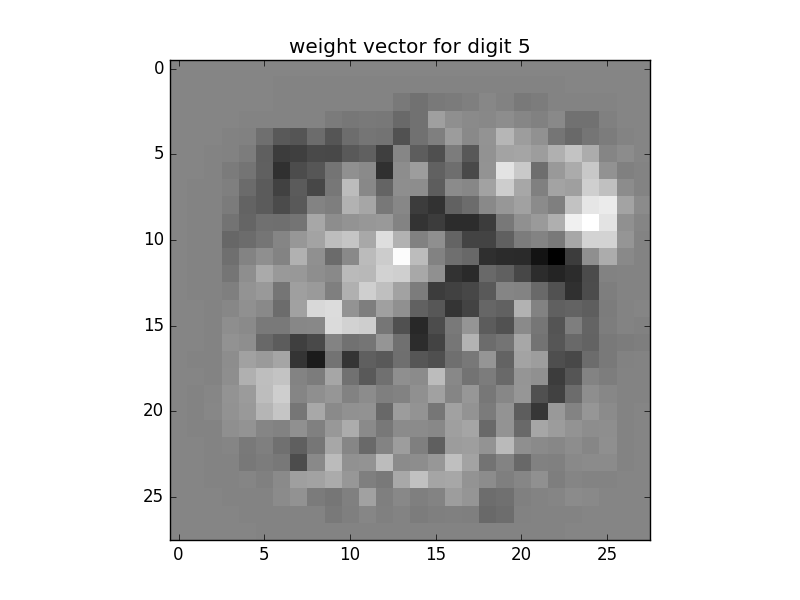
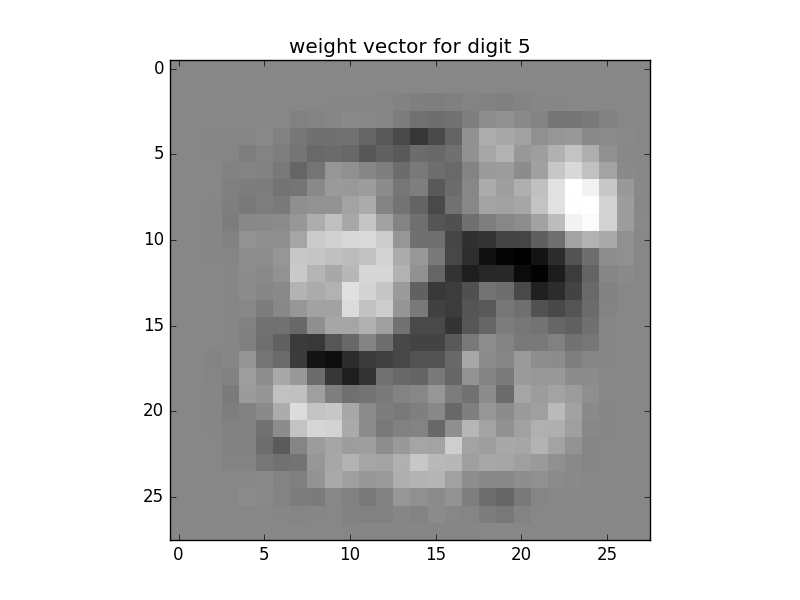
Fixed Q4 sec. c and the non-kernel SGD

Changed region(s): [[0.2812, 0.18, 0.7812, 0.84], [0.6875, 0.21, 0.75, 0.24]]

diff --git a/HW3/hw3.py b/HW3/hw3.py
@@ -52,8 +52,9 @@ def main(args):
         output = ''
         # Section A
 
-    etas = [x for x in frange(0.000001, 0.00001, 0.000001)]
-    T = 1000
+    etas = [1e-20,1e-19,1e-18,1e-17,1e-16,1e-15\
+        ,1e-14,1e-13,1e-12,1e-11,1e-10,1e-9,1e-8,1e-7,1e-6,1e-5,1e-4,1e-3,1e-2,1e-1,1e-0]
+    T = 5000
     C = 1.0
     best_eta = 0
     best_accuracy = 0
@@ -68,13 +69,13 @@ def main(args):
     plt.figure(1)
     plt.plot(etas, acs)
     plt.xlabel('$\eta$ value')
+    plt.xscale('log')
     plt.ylabel('Accuracy')
     plt.title('Different $\eta$ values vs. their accuracy')
     img_save = output + 'Q3_Section_A_eta'
     plt.savefig(img_save)
 
-    C_list = [math.pow(math.sqrt(10), x) for x in range(-20, 22)]
-    T = 1000
+    C_list = [1e-10,1e-9,1e-8,1e-7,1e-6,1e-5,1e-4,1e-3,1e-2,1e-1,1e0,1e1,1e2,1e3,1e4,1e5,1e6,1e7,1e8,1e9,1e10]
     best_C = 0
     best_accuracy = 0
     acs = []
@@ -94,7 +95,6 @@ def main(args):
     img_save = output + 'Q3_Section_A_C'
     plt.savefig(img_save)
 
-    T = 10000
     weights = ourNonKernelSGDSVM(train_data, train_labels, best_C, best_eta, T)
     for j in K:
         w = weights[j]
@@ -121,10 +121,7 @@ def accuracyCalc(eta, C, T, set, labels):
 def testAccuracy(weights, set, labels):
     accuracy_for_validation = 0
     for i in range(set.shape[0]):
-        indicator_vec = [1 if j != labels[i] else 0 for j in K]
-        penalty_vec = [np.dot(set[i], weights[j]) \
-                   - np.dot(set[i], weights[int(labels[i])]) + indicator_vec[j] for j in K]
-        prediction = np.argmax(penalty_vec)
+        prediction = np.argmax(np.array([np.dot(set[i], weights[j]) for j in range(10)]), axis=0)
         if prediction == labels[i]:
             accuracy_for_validation += 1.0
 
@@ -144,6 +141,7 @@ def ourNonKernelSGDSVM(samples, labels, C, eta, T):
         if max_j != labels[i]:
             weights[max_j] -= eta * C * samples[i]
             weights[int(labels[i])] += eta * C * samples[i]
+
     return weights
 
 def ourKernelSGDSVM(samples, labels, eta, C, T):
